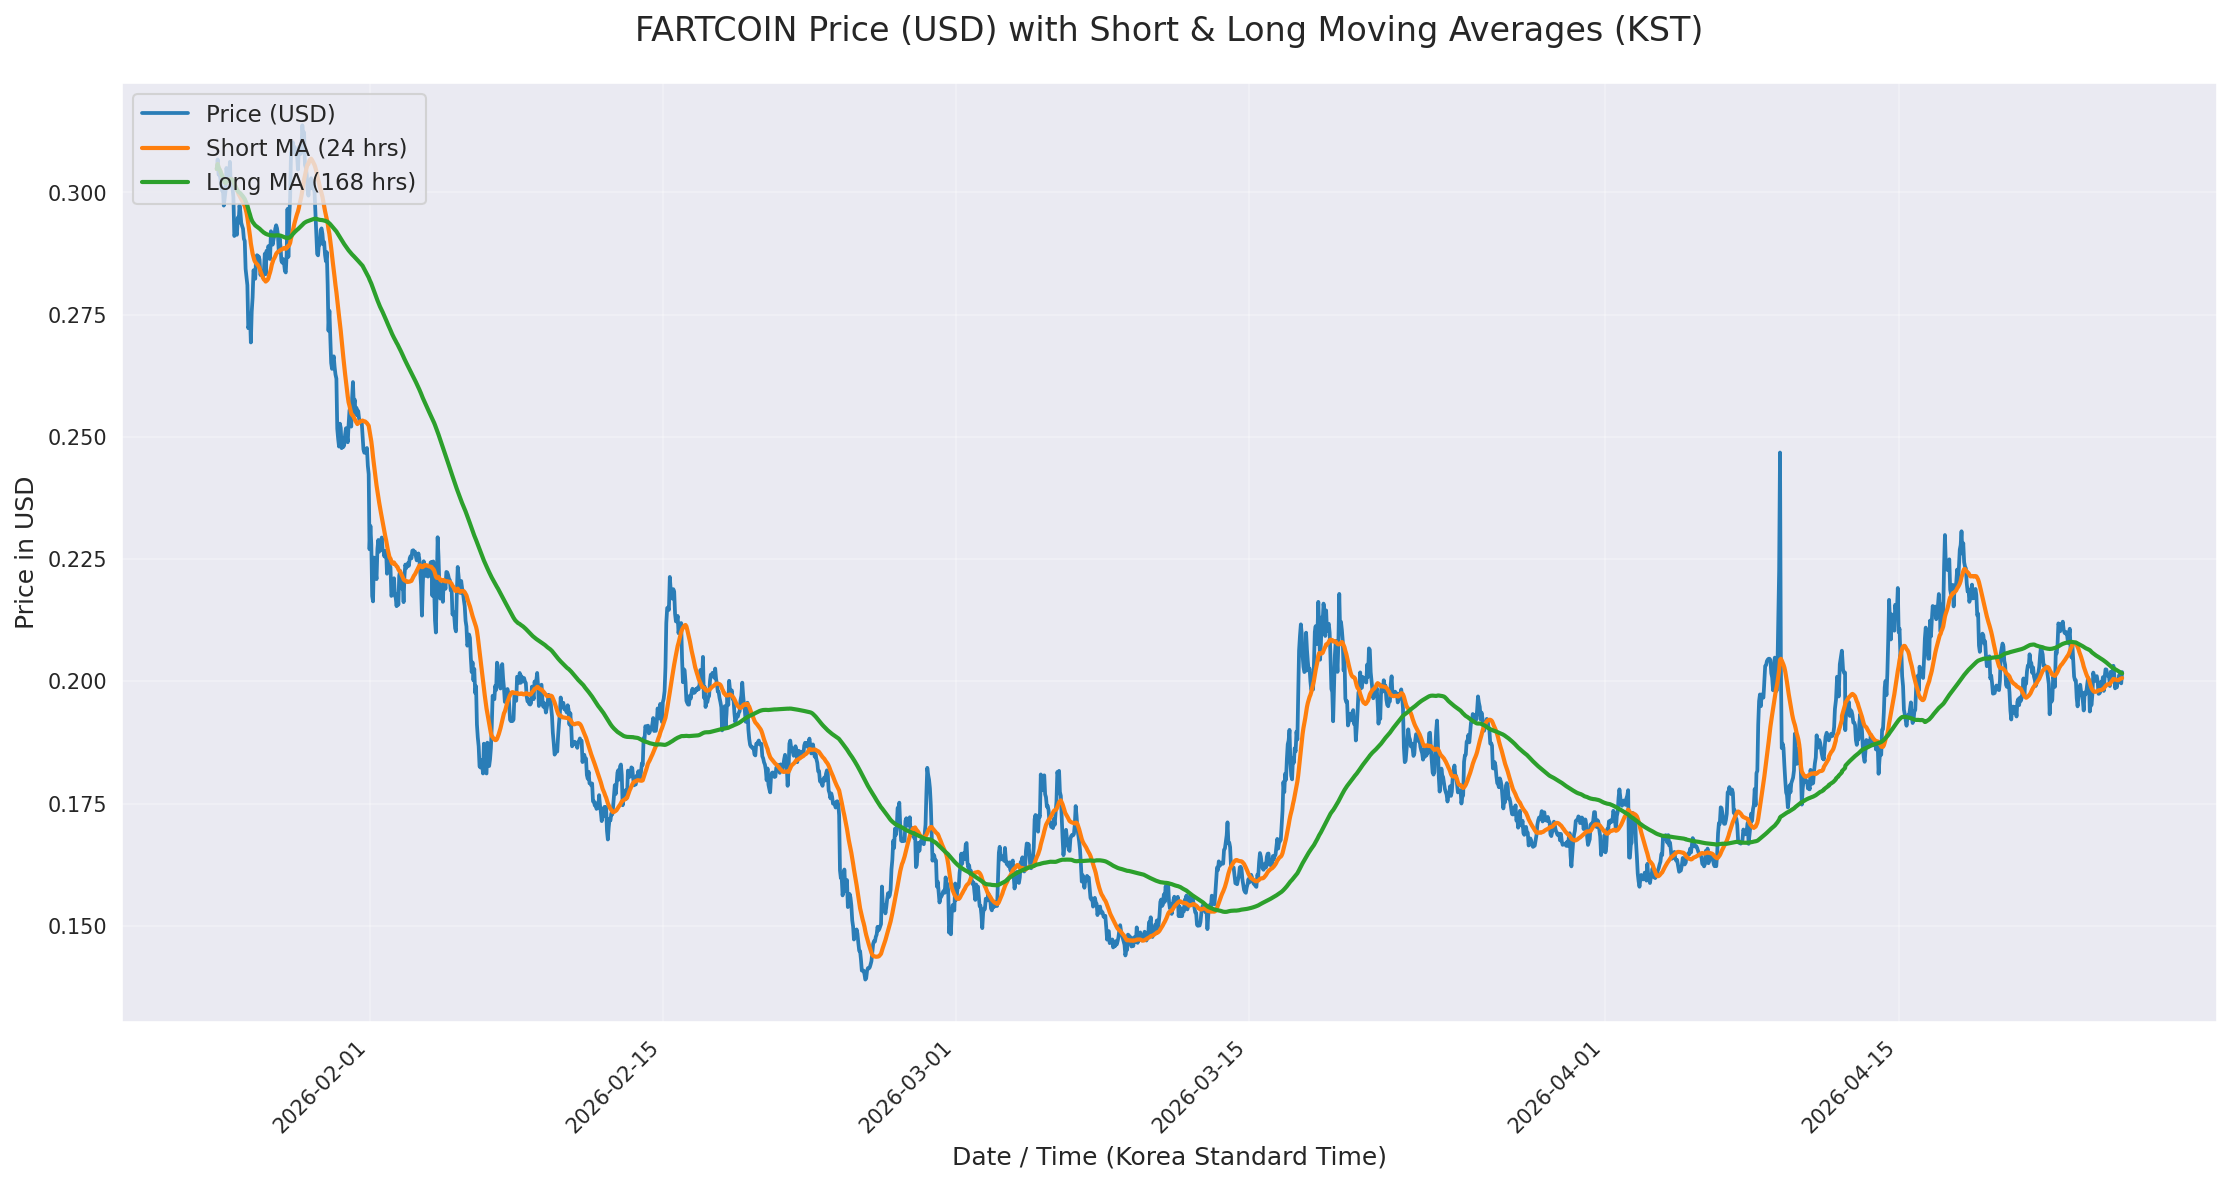
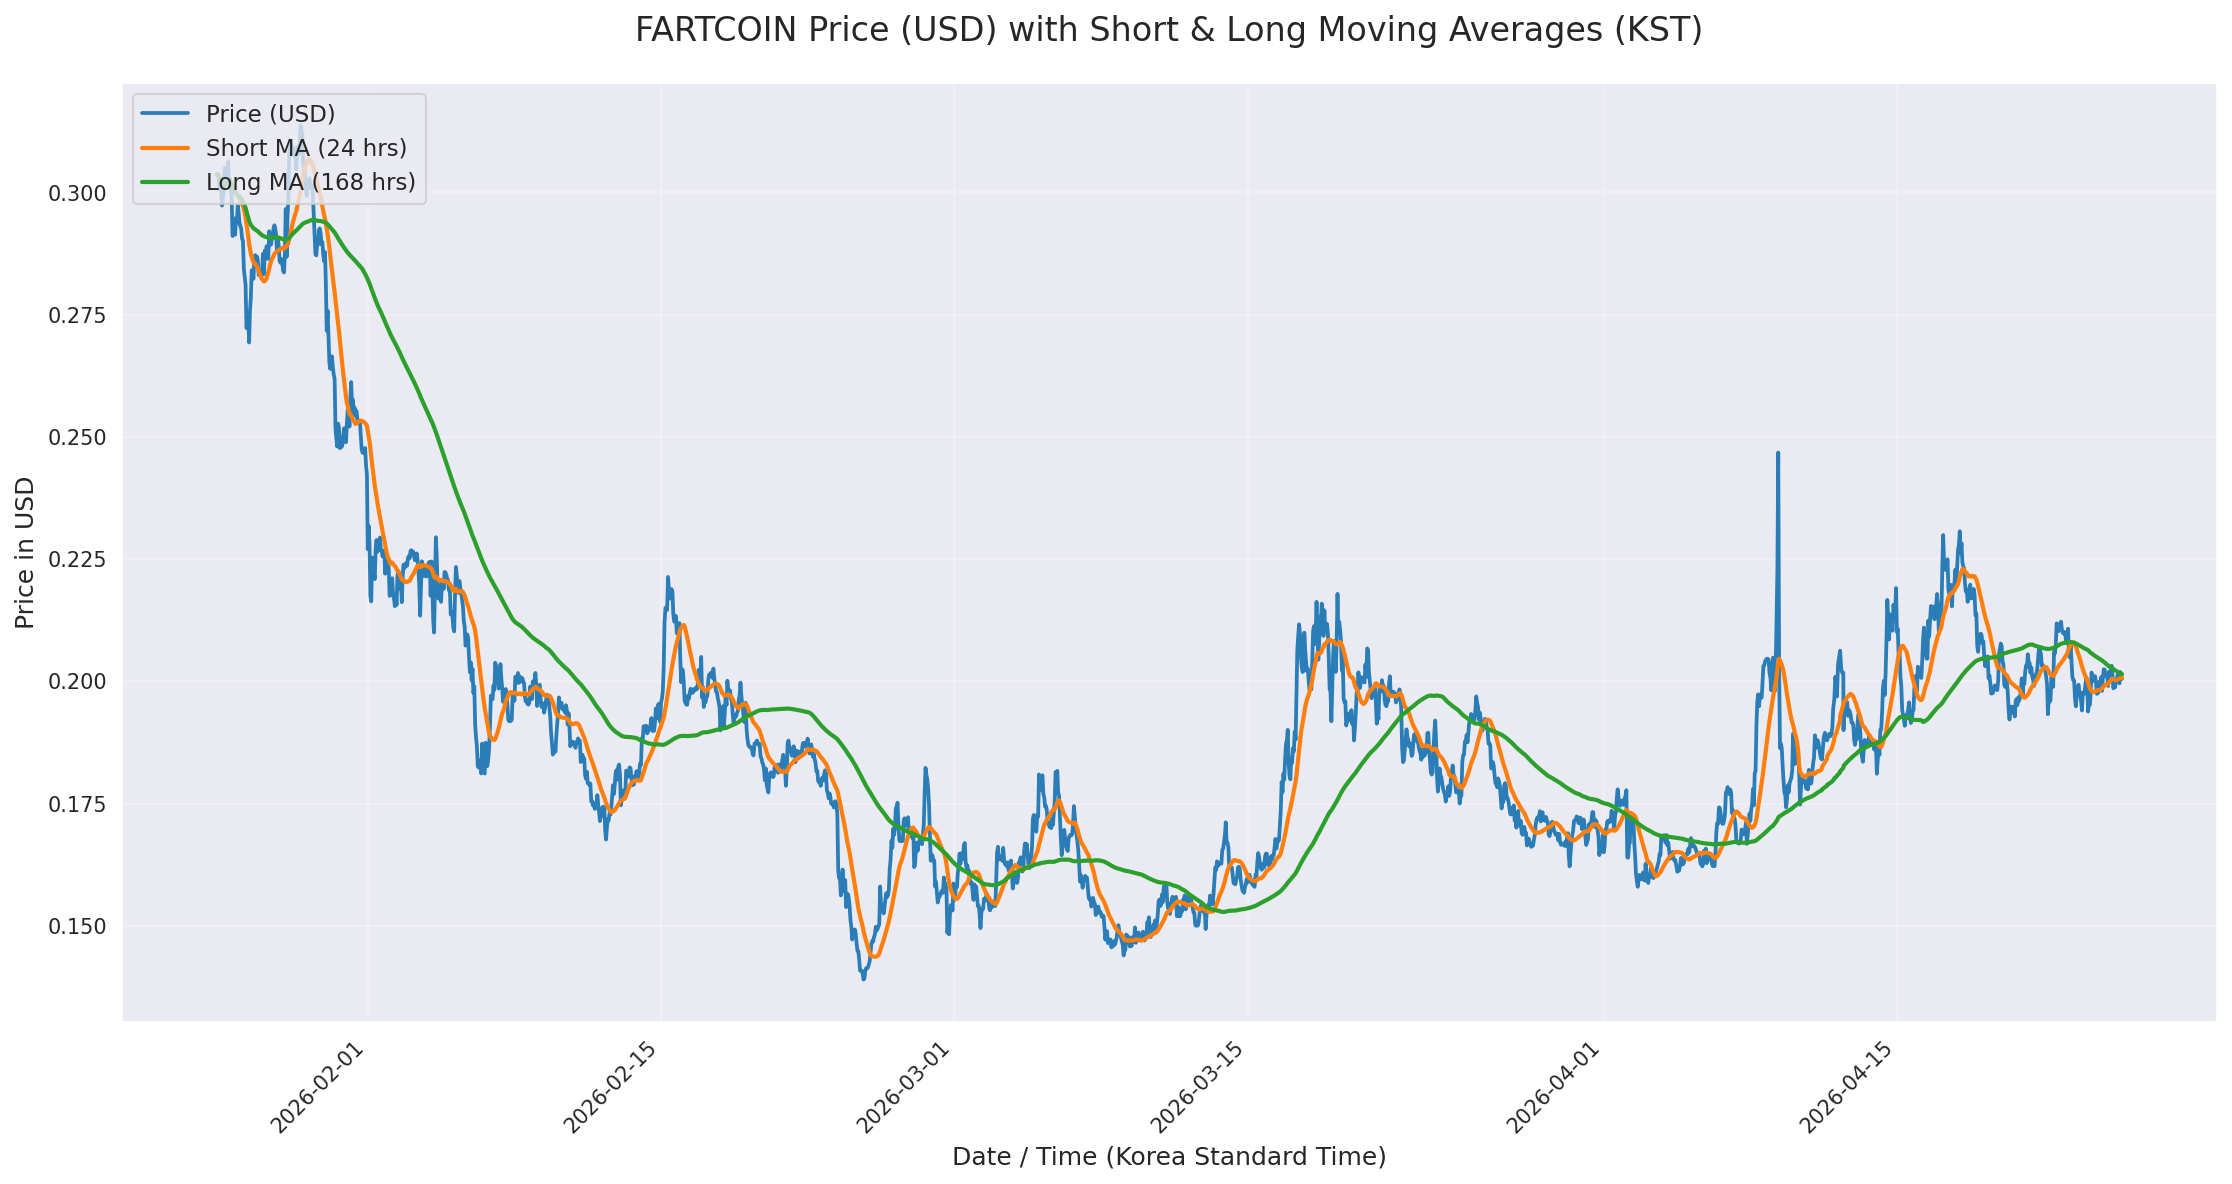
based on id, draw charts

diff --git a/src/snipe/draw_chart.py b/src/snipe/draw_chart.py
@@ -3,24 +3,42 @@ import matplotlib.pyplot as plt
 import seaborn as sns
 from datetime import timedelta
 import os
+import argparse
 
 # ==================== CONFIG SECTION ====================
-# Path to CSV (automatically looks for price_data/ next to this script)
 SCRIPT_DIR = os.path.dirname(os.path.abspath(__file__))
-CSV_PATH = os.path.join(SCRIPT_DIR, 'price_data', 'FARTCOIN.csv')
 
-SHORT_MA_WINDOW = 24      # Short-term MA (≈ 1 day)
-LONG_MA_WINDOW = 168      # Long-term MA (≈ 7 days)
+# Command-line argument for maximum flexibility
+parser = argparse.ArgumentParser(
+    description="Generate price chart with Short & Long MAs for any coin's CSV file."
+)
+parser.add_argument(
+    '--csv',
+    type=str,
+    default=os.path.join(SCRIPT_DIR, 'price_data', 'fartcoin.csv'),
+    help='Path to the price CSV file (default: price_data/fartcoin.csv)'
+)
+args = parser.parse_args()
+
+CSV_PATH = args.csv
+
+# === Derive coin name dynamically from CSV filename ===
+csv_filename = os.path.basename(CSV_PATH)
+coin_slug = os.path.splitext(csv_filename)[0].lower()          # e.g. "fartcoin"
+coin_name = coin_slug.upper()                                   # e.g. "FARTCOIN"
+
+SHORT_MA_WINDOW = 24 # Short-term MA
+LONG_MA_WINDOW = 24*7 # Long-term MA
 RECENT_DAYS_FOR_SUMMARY = 30
 
 DPI = 150                 # ← Image resolution (150 = fast & light, 300 = high quality)
-OUTPUT_FILE = 'fartcoin_price_ma_kst.png'
-TITLE = 'FARTCOIN Price (USD) with Short & Long Moving Averages (KST)'
+OUTPUT_FILE = f'{coin_slug}_price_ma_kst.png'
+TITLE = f'{coin_name} Price (USD) with Short & Long Moving Averages (KST)'
 FIG_SIZE = (15, 8)
 # =======================================================
 
 # Load data
-print(f"📂 Loading data from: {CSV_PATH}")
+print(f"📂 Loading data from: {CSV_PATH} (coin: {coin_name})")
 df = pd.read_csv(CSV_PATH)
 
 # Parse datetime and convert to KST
@@ -42,7 +60,7 @@ latest_long_ma = recent_df['long_ma'].iloc[-1]
 latest_time_kst = recent_df['datetime_kst'].iloc[-1]
 
 print(f"\n📅 Latest data point (KST): {latest_time_kst.strftime('%Y-%m-%d %H:%M')}")
-print(f"💰 Latest Price: ${latest_price:.6f}")
+print(f"💰 Latest {coin_name} Price: ${latest_price:.6f}")
 print(f"📈 Short MA ({SHORT_MA_WINDOW} periods): ${latest_short_ma:.6f}")
 print(f"📉 Long MA ({LONG_MA_WINDOW} periods): ${latest_long_ma:.6f}")
 

diff --git a/src/snipe/get_price_data.py b/src/snipe/get_price_data.py
@@ -94,7 +94,7 @@ def fetch_price_history_for_token(token: Dict, api_key: str) -> pd.DataFrame:
         return pd.DataFrame()
 
     os.makedirs(CONFIG["OUTPUT_DIR"], exist_ok=True)
-    output_file = Path(CONFIG["OUTPUT_DIR"]) / f"{symbol}.csv"
+    output_file = Path(CONFIG["OUTPUT_DIR"]) / f"{coin_id}.csv"   # ← CHANGED: use id instead of symbol
 
     if output_file.exists() and not CONFIG["FORCE_FRESH_DOWNLOAD"]:
         print(f"✅ {output_file.name} already exists (set FORCE_FRESH_DOWNLOAD=True to override)")